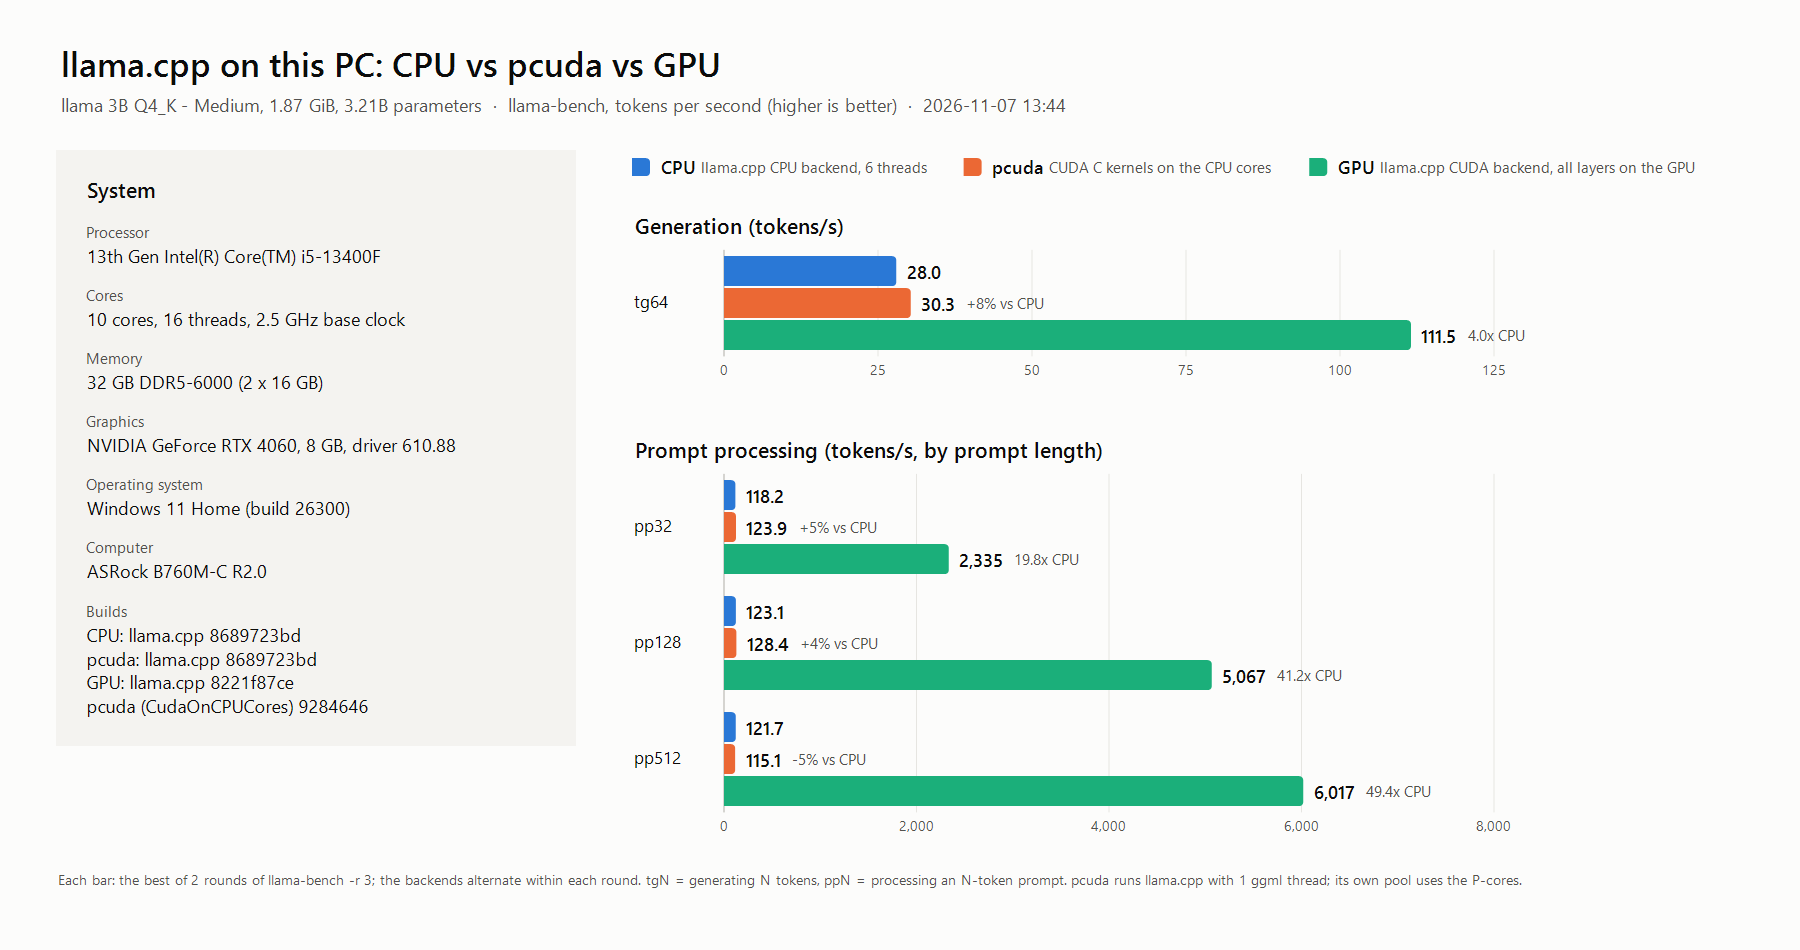
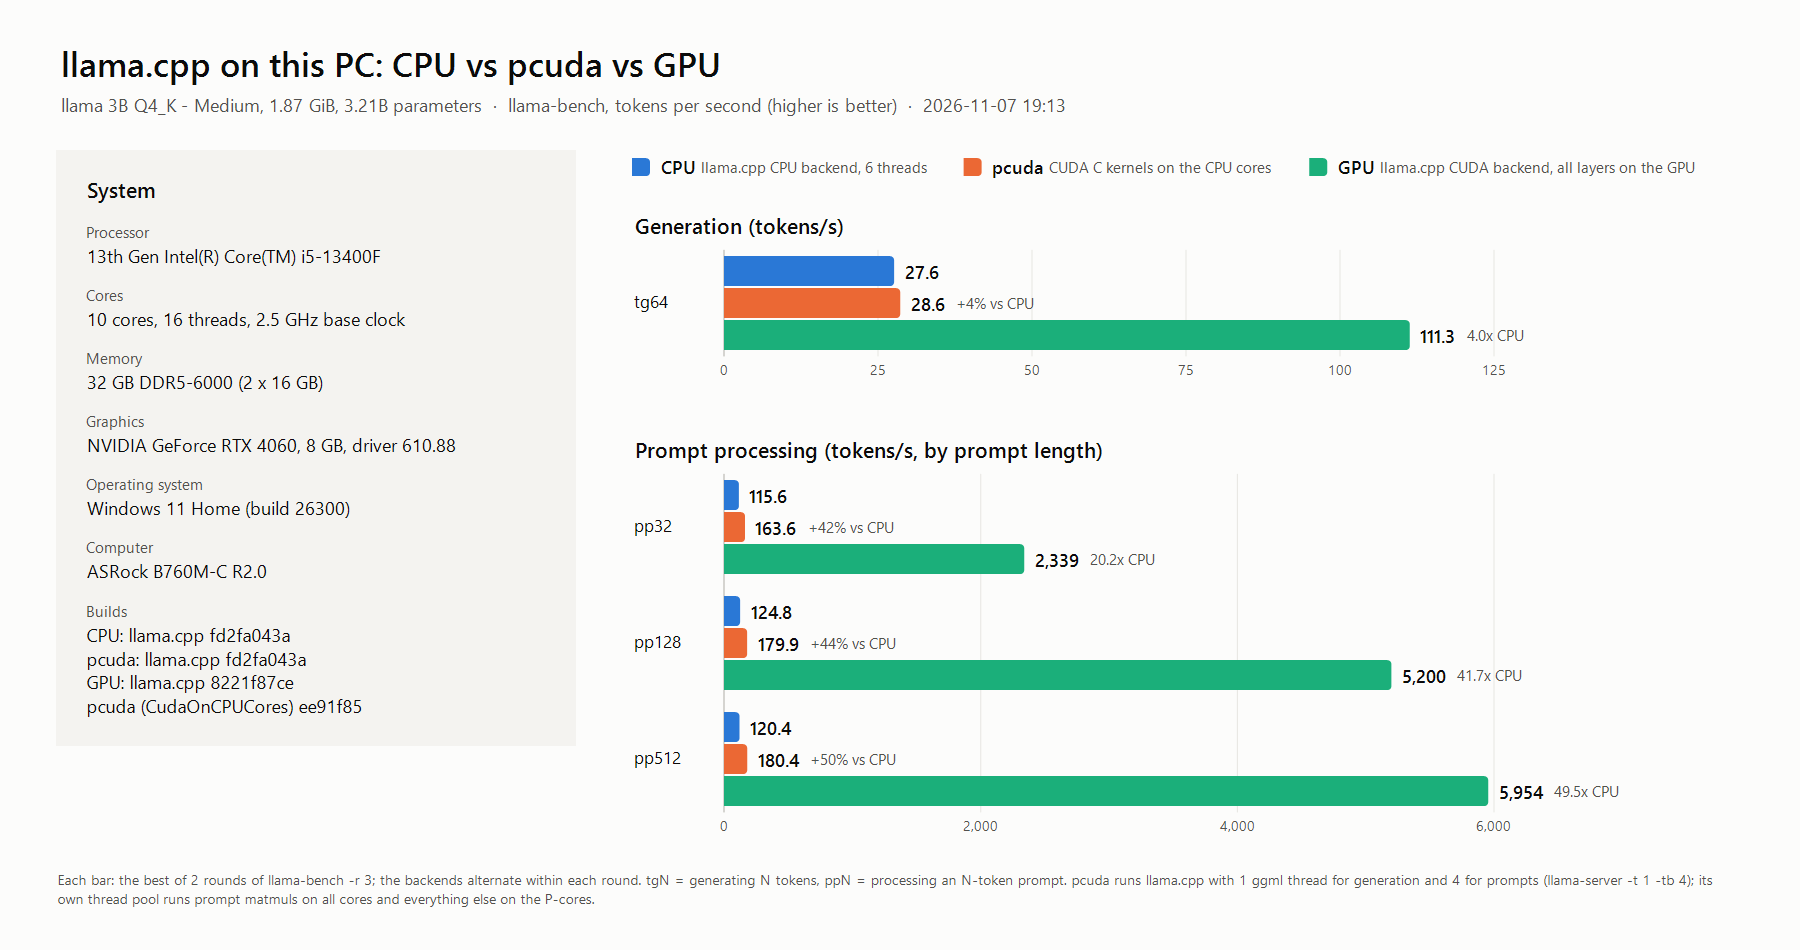
bench_chart: pcuda with 1 ggml thread for generation and 4 for prompts; new results
llama-bench has no -tb, so pcuda runs prompts (-t 4) and generation (-t 1) as two
llama-bench calls, like llama-server -t 1 -tb 4 (-PcudaThreads, -PcudaBatchThreads).
The footer describes pcuda's thread use. Fixes two Windows PowerShell list-unrolling bugs.
README: ggml thread advice with the measurements (pcuda prompts need several ggml
threads for attention; generation is best with one).

Chart (best of 2 rounds), CPU / pcuda / GPU tok/s: tg64 27.6 / 28.6 / 111.3,
pp32 115.6 / 163.6 / 2339, pp128 124.8 / 179.9 / 5200, pp512 120.4 / 180.4 / 5954.

diff --git a/README.md b/README.md
@@ -413,7 +413,12 @@ Results with Llama 3.2 3B Q4_K_M from Ollama's store, in llama-bench (same binar
   stays scalar and `l` is lane + uniform, and every weight word is one plain prefetched load, with no
   run-time index check (the inner loop of `matmul_q4k_q8x8`: 54 instructions per pass, was 67).
   Prompts: about 30% faster, results bit-identical.
-- Use 1 ggml thread (`-t 1`). More ggml threads compete with pcuda's pool.
+- **ggml threads: 1 for generation, 4 for prompts** (`llama-server -t 1 -tb 4`). Attention and the
+  other ops pcuda leaves to the CPU backend run on the ggml threads; for prompts they need several.
+  For generation, more ggml threads only compete with pcuda's pool. pcuda in llama-bench, medians of
+  3 alternating rounds (pp32 / pp128 / pp512 / tg64): `-t 1` 150 / 161 / 138 / 29.1, `-t 4`
+  159 / 176 / 169 / 27.9, `-t 6` 153 / 167 / 159 / 27.8 tok/s. llama-bench has no `-tb`: run prompts
+  and generation separately (as `scripts/bench_chart.ps1` does).
 
 ## Runtime settings (environment variables)
 
